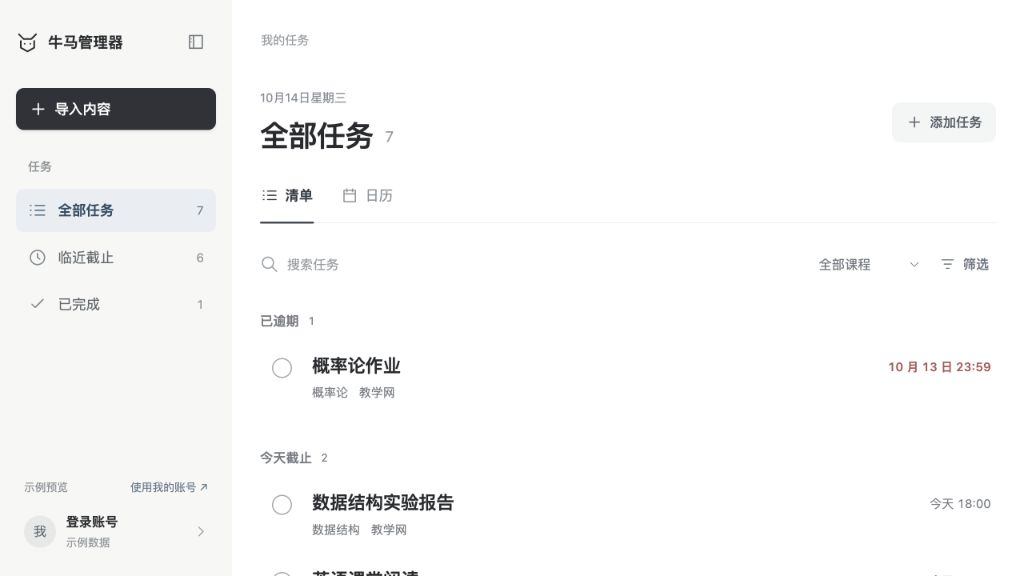
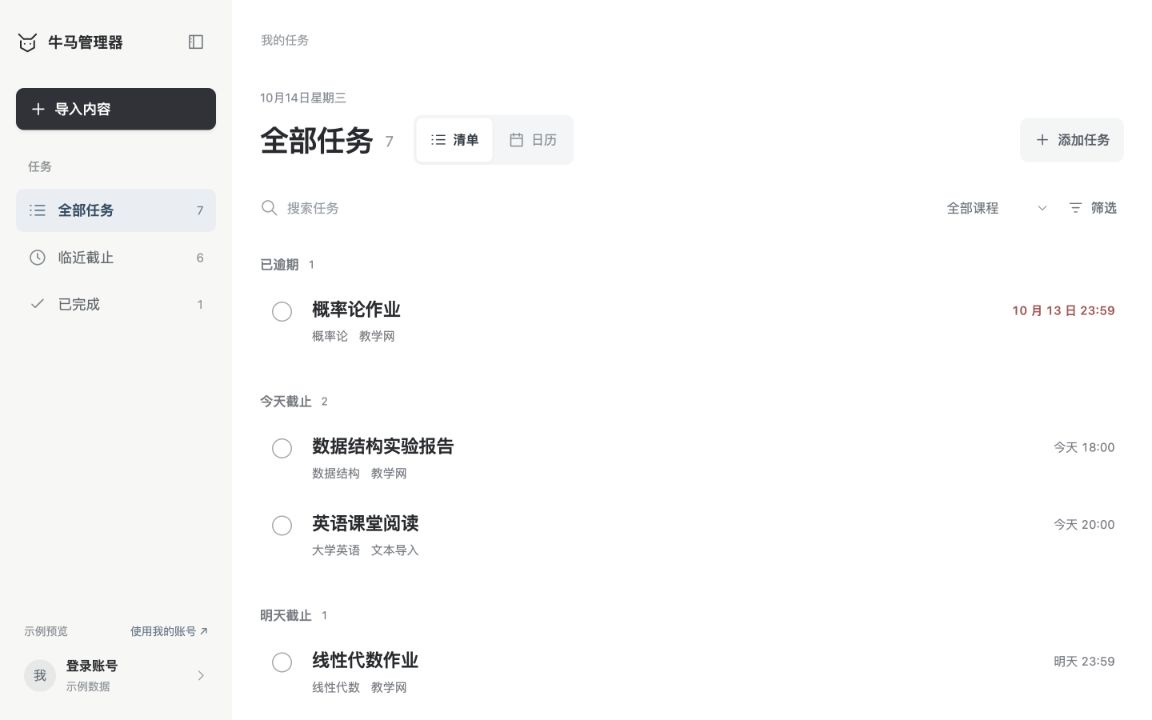
fix(frontend): simplify task views and stabilize view switching

diff --git a/frontend/src/app.js b/frontend/src/app.js
@@ -171,6 +171,7 @@ async function refresh() {
   render();
 }
 const filtered = () => filterTasks(state.tasks, { ...ui, today });
+const taskView = () => (ui.scope === "all" ? ui.view : "list");
 const courses = () =>
   [...new Set(state.tasks.map((t) => t.course).filter(Boolean))].sort((a, b) =>
     a.localeCompare(b, "zh"),
@@ -235,25 +236,29 @@ function calendarTools() {
   return `<div class="calendar-tools"><div class="calendar-period"><h2>${monthLabel()}</h2><div class="calendar-arrows"><button type="button" class="icon-button" data-action="calendar-prev" aria-label="${ui.mode === "month" ? "上个月" : "上一周"}">${icon("chevron", "flip")}</button><button type="button" class="icon-button" data-action="calendar-next" aria-label="${ui.mode === "month" ? "下个月" : "下一周"}">${icon("chevron")}</button><button type="button" class="btn quiet" data-action="calendar-today">今天</button></div></div><div class="calendar-options"><label class="jump-control" title="跳转日期">${icon("calendar")}<span class="sr-only">跳转日期</span><input id="calendar-jump" type="date" value="${esc(ui.selectedDate)}" aria-label="跳转日期"></label><div class="segmented small" aria-label="日历范围"><button type="button" data-calendar-mode="month" aria-pressed="${ui.mode === "month"}">月</button><button type="button" data-calendar-mode="week" aria-pressed="${ui.mode === "week"}">周</button></div></div></div>`;
 }
 function taskResults() {
-  const tasks = filtered(),
-    paneTasks = [
-      ...tasks.filter((t) => t.due),
-      ...filterTasks(state.tasks, {
-        ...ui,
-        scope: ui.scope === "done" ? "done" : "all",
-        today,
-      }).filter((t) => !t.due),
-    ];
-  if (ui.view === "list")
+  const tasks = filtered();
+  if (taskView() === "list")
     return renderTaskList(tasks, { escapeHtml: esc, icon, today });
+  const paneTasks = [
+    ...tasks.filter((t) => t.due),
+    ...filterTasks(state.tasks, {
+      ...ui,
+      scope: "all",
+      today,
+    }).filter((t) => !t.due),
+  ];
   return `${calendarTools()}<div class="calendar-layout"><div class="calendar-grid-wrap">${renderCalendar({ tasks, anchorDate: ui.anchor, mode: ui.mode, selectedDate: ui.selectedDate, today, escapeHtml: esc, icon })}</div>${renderDayPanel({ tasks: paneTasks, selectedDate: ui.selectedDate, pane: ui.pane, escapeHtml: esc, icon, today })}</div>`;
 }
 function tasksPage() {
+  const view = taskView();
+  const viewSwitch = ui.scope === "all"
+    ? `<div class="segmented task-view-switch" role="group" aria-label="任务视图"><button type="button" data-view="list" aria-pressed="${view === "list"}">${icon("tasks")}<span>清单</span></button><button type="button" data-view="calendar" aria-pressed="${view === "calendar"}">${icon("calendar")}<span>日历</span></button></div>`
+    : "";
   const label =
     { all: "全部任务", near: "临近截止", done: "已完成", undated: "无日期" }[
       ui.scope
     ] || "全部任务";
-  return `<section class="task-page ${ui.view === "calendar" ? "is-calendar" : ""}"><header class="page-heading"><div><div class="page-eyebrow">${new Intl.DateTimeFormat("zh-CN", { month: "long", day: "numeric", weekday: "long" }).format(new Date(today + "T12:00:00"))}</div><h1 tabindex="-1">${label}<span class="heading-count" id="result-count">${filtered().length}</span></h1></div><button type="button" class="btn add-task" data-action="task-new">${icon("plus")}<span>添加任务</span></button></header><div class="view-tabs" aria-label="任务视图"><button type="button" data-view="list" aria-pressed="${ui.view === "list"}">${icon("tasks")}清单</button><button type="button" data-view="calendar" aria-pressed="${ui.view === "calendar"}">${icon("calendar")}日历</button><span class="view-caption">${ui.view === "calendar" ? "按截止日期查看" : ""}</span></div>${toolbar()}<div id="task-results">${taskResults()}</div>${state.trash.length ? `<footer class="task-page-footer"><button type="button" class="btn quiet" data-action="open-trash">${icon("trash")}回收站 <span>${state.trash.length}</span></button></footer>` : ""}<datalist id="course-options">${courses()
+  return `<section class="task-page ${view === "calendar" ? "is-calendar" : ""}"><header class="page-heading task-page-heading"><div class="task-heading"><div class="page-eyebrow">${new Intl.DateTimeFormat("zh-CN", { month: "long", day: "numeric", weekday: "long" }).format(new Date(today + "T12:00:00"))}</div><div class="task-heading-line"><h1 tabindex="-1">${label}<span class="heading-count" id="result-count">${filtered().length}</span></h1>${viewSwitch}</div></div><button type="button" class="btn add-task" data-action="task-new" aria-label="添加任务">${icon("plus")}<span>添加任务</span></button></header>${toolbar()}<div id="task-results">${taskResults()}</div>${state.trash.length ? `<footer class="task-page-footer"><button type="button" class="btn quiet" data-action="open-trash">${icon("trash")}回收站 <span>${state.trash.length}</span></button></footer>` : ""}<datalist id="course-options">${courses()
     .map((c) => `<option value="${esc(c)}">`)
     .join("")}</datalist></section>`;
 }
@@ -583,6 +588,7 @@ document.addEventListener("click", async (e) => {
       return;
     }
     if (button.dataset.view) {
+      if (ui.scope !== "all") return;
       ui.view = button.dataset.view;
       remember();
       render();

diff --git a/frontend/src/styles.css b/frontend/src/styles.css
@@ -24,6 +24,9 @@
 * {
   box-sizing: border-box;
 }
+html {
+  scrollbar-gutter: stable;
+}
 [hidden] {
   display: none !important;
 }
@@ -343,11 +346,13 @@ button .icon {
   display: none;
 }
 .task-page {
-  max-width: 860px;
-  margin: auto;
-}
-.task-page.is-calendar {
   max-width: 1450px;
+  margin: auto;
+  overflow-anchor: none;
+}
+.task-page:not(.is-calendar) #task-results,
+.task-page:not(.is-calendar) .task-page-footer {
+  max-width: 860px;
 }
 .page-heading {
   display: flex;
@@ -355,6 +360,43 @@ button .icon {
   justify-content: space-between;
   gap: 18px;
   margin-bottom: 23px;
+}
+.task-page-heading {
+  align-items: flex-end;
+}
+.task-heading {
+  min-width: 0;
+}
+.task-heading-line {
+  display: flex;
+  align-items: center;
+  gap: 20px;
+  min-height: 50px;
+}
+.task-heading-line h1 {
+  flex: none;
+  white-space: nowrap;
+}
+.task-heading-line .task-view-switch {
+  flex: none;
+}
+.task-heading-line .task-view-switch button {
+  display: inline-flex;
+  align-items: center;
+  justify-content: center;
+  gap: 6px;
+  min-width: 76px;
+  min-height: 44px;
+  padding: 9px 12px;
+  white-space: nowrap;
+}
+.task-view-switch .icon {
+  width: 17px;
+  height: 17px;
+}
+.task-page-heading > .add-task {
+  min-height: 44px;
+  margin-bottom: 3px;
 }
 .page-eyebrow {
   font-size: 12px;
@@ -387,49 +429,6 @@ button .icon {
 .add-task .icon {
   width: 17px;
   height: 17px;
-}
-.view-tabs {
-  display: flex;
-  align-items: center;
-  border-bottom: 1px solid var(--line);
-  gap: 26px;
-  margin-bottom: 21px;
-}
-.view-tabs > button {
-  display: flex;
-  align-items: center;
-  gap: 7px;
-  position: relative;
-  min-height: 44px;
-  background: transparent;
-  border: 0;
-  padding: 0 1px 10px;
-  font-size: 14px;
-  color: #8c9399;
-}
-.view-tabs > button[aria-pressed="true"] {
-  color: #303941;
-  font-weight: 600;
-}
-.view-tabs > button[aria-pressed="true"]:after {
-  content: "";
-  position: absolute;
-  left: 0;
-  right: 0;
-  bottom: -1px;
-  height: 2px;
-  background: #424b53;
-  border-radius: 2px;
-}
-.view-tabs .icon {
-  width: 17px;
-  height: 17px;
-}
-.view-caption {
-  font-size: 12px;
-  color: #a2a8ad;
-  margin-left: auto;
-  padding-bottom: 10px;
 }
 .query-toolbar {
   display: flex;
@@ -1152,9 +1151,6 @@ dialog .auth-switch {
     padding-left: 64px;
     padding-right: 64px;
   }
-  .task-page {
-    max-width: 900px;
-  }
   .calendar-layout {
     grid-template-columns: minmax(0, 1fr) 290px;
   }
@@ -1219,11 +1215,11 @@ dialog .auth-switch {
   .page-heading h1 {
     font-size: 26px;
   }
+  .task-heading-line {
+    gap: 14px;
+  }
   .calendar-options {
     gap: 5px;
-  }
-  .view-caption {
-    display: none;
   }
   .calendar-period {
     gap: 12px;
@@ -1284,6 +1280,54 @@ dialog .auth-switch {
     gap: 10px;
     margin-bottom: 17px;
   }
+  .task-page-heading {
+    display: grid;
+    grid-template-columns: minmax(0, 1fr) 44px;
+    grid-template-rows: 44px auto;
+    align-items: center;
+    gap: 6px 0;
+  }
+  .task-page-heading .task-heading {
+    display: contents;
+  }
+  .task-page-heading .page-eyebrow {
+    grid-column: 1;
+    grid-row: 1;
+    margin-bottom: 0;
+  }
+  .task-heading-line {
+    grid-column: 1 / -1;
+    grid-row: 2;
+    justify-content: space-between;
+    gap: 10px;
+  }
+  .task-heading-line h1 {
+    gap: 8px;
+  }
+  .task-heading-line .heading-count {
+    font-size: 13px;
+  }
+  .task-heading-line .task-view-switch button {
+    gap: 4px;
+    min-width: 58px;
+    padding: 9px 7px;
+    font-size: 12px;
+  }
+  .task-view-switch .icon {
+    width: 14px;
+    height: 14px;
+  }
+  .task-page-heading > .add-task {
+    grid-column: 2;
+    grid-row: 1;
+    width: 44px;
+    height: 44px;
+    padding: 0;
+    margin-bottom: 0;
+  }
+  .task-page-heading > .add-task span {
+    display: none;
+  }
   .page-heading h1,
   .import-page h1 {
     font-size: 27px;
@@ -1298,10 +1342,6 @@ dialog .auth-switch {
   .add-task .icon {
     width: 16px;
     height: 16px;
-  }
-  .view-tabs {
-    margin-bottom: 13px;
-    gap: 25px;
   }
   .query-toolbar {
     flex-wrap: wrap;
@@ -1423,6 +1463,18 @@ dialog .auth-switch {
   }
   .preview-note {
     font-size: 11px;
+  }
+}
+@media (max-width: 360px) {
+  .task-heading-line h1 {
+    font-size: 24px;
+  }
+  .task-heading-line .task-view-switch button {
+    min-width: 44px;
+    padding: 9px 6px;
+  }
+  .task-view-switch .icon {
+    display: none;
   }
 }
 @media (prefers-reduced-motion: reduce) {

diff --git a/frontend/docs/design.md b/frontend/docs/design.md
@@ -27,12 +27,12 @@
 ## 布局与入口
 
 - 桌面侧栏宽度 232px，可折叠；导入为明显主入口，任务范围位于同一区域，账号固定底部。
-- 清单最大阅读宽度 860px，避免宽屏任务行横跨整个屏幕。
+- 清单与日历共用固定宽度页面容器，切换时标题和查询区不位移；清单正文最大阅读宽度 860px，日历使用容器内较宽区域。
 - 任务详情采用约 420px 的右侧抽屉，背景清单和查询状态保留。
 - 700px 为手机布局断点：侧栏改为可关闭菜单，顶部保留导航触发按钮；抽屉适配窄屏。
 - 关键触控操作提供至少 44px 有效点击高度。选中状态除了颜色，还使用字重、形状及 `aria-pressed` 或 `aria-current`。
 
-“清单 / 日历”是同一任务范围的两种展示方式；“月 / 周”只出现在日历内部，避免把所有视图放进侧栏。日期选择和查询控件不与导入入口争夺视觉重点。
+“清单 / 日历”双段开关放在全部任务标题右侧，删除独立标签栏；临近截止与已完成固定使用清单。“月 / 周”只出现在日历内部，避免把所有视图放进侧栏。日期选择和查询控件不与导入入口争夺视觉重点。
 
 ## 任务查询与清单
 
@@ -40,13 +40,13 @@
 
 任务清单按以下顺序分组，空组不显示：已逾期、今天截止、明天截止、未来 7 天、之后截止、无截止日期。已完成任务平铺，不被重新标成逾期。
 
-查询区常驻关键词、课程和筛选入口。来源与截止日期范围收在可展开筛选区；组合条件一起生效，清单与日历使用相同条件。切换视图、完成任务或关闭详情保留查询、选中日期和浏览范围。
+查询区常驻关键词、课程和筛选入口。来源与截止日期范围收在可展开筛选区；组合条件一起生效，全部任务的清单与日历使用相同条件。切换视图、完成任务或关闭详情保留查询、选中日期和浏览范围；从日历进入临近截止或已完成，再返回全部任务时，恢复原月份、日期、月周模式、筛选与视图偏好。
 
 任务行的完成按钮与详情按钮相互独立，不能嵌套按钮。名称是视觉主体，课程、来源与进行中状态退到辅助层；截止日期在清楚的位置显示。查看详情后可编辑任务、标记完成或删除。
 
 ## 月历与周历
 
-日历只表示**任务的截止日期**，不表示开始时间、执行时段或学习计划。具体截止时刻可以展示；未提供时刻时不补造 23:59。
+日历仅属于全部任务页，展示未完成任务的**截止日期**，不表示开始时间、执行时段或学习计划；已完成任务不进入日历。具体截止时刻可以展示；未提供时刻时不补造 23:59。
 
 月历周一开头，按月份显示 4–6 行并淡化相邻月份日期。每格最多显示两条任务摘要，更多任务用“+N 项”进入当天清单；今天和选中日期以轻背景或小圆区分。桌面摘要可直接打开任务详情。
 

diff --git a/frontend/README.md b/frontend/README.md
@@ -1,13 +1,13 @@
 # 牛马管理器前端
 
-当前网页围绕两件事组织：导入通知，以及查询和处理任务。任务支持清单、月历和周历；账号入口固定在侧栏底部。当前界面规格见 [设计说明](docs/design.md)，模块边界见 [维护指南](docs/maintenance.md)。
+当前网页围绕两件事组织：导入通知，以及查询和处理任务。全部任务标题右侧的双段开关切换清单与日历，不再单设标签栏；两视图共用固定宽度页面容器，标题和查询区保持原位，清单正文限宽 860px，日历使用较宽区域。临近截止与已完成固定使用清单；账号入口固定在侧栏底部。当前界面规格见 [设计说明](docs/design.md)，模块边界见 [维护指南](docs/maintenance.md)。
 
 ## 功能与数据
 
 - **导入**：粘贴文本，或连接教学网采集作业与通知。结果进入待核对列表，核对原文、日期和目标任务后再确认新增或变更；支持忽略、撤回忽略及失败重试。邮箱显示禁用入口，尚未接入。
 - **任务**：添加、编辑、完成、重新打开、删除和恢复。删除先进入账号回收站；有记录时，任务页底部显示回收站入口。
 - **查询**：全部任务、临近截止、已完成三个范围，共用关键词、课程、来源和截止日期筛选。临近截止包含逾期任务以及今天起未来 7 天到期的未完成任务。
-- **日历**：月、周视图都按截止日期展示任务；选择日期查看当天清单，无日期任务另有入口。日期只有天时保留日期精度，具体时刻可留空。
+- **日历**：仅在全部任务中提供，月、周视图都按截止日期展示未完成任务；选择日期查看当天清单，无日期任务另有入口。切到临近截止或已完成再返回，保留原月份、选中日期、月周模式、筛选与视图偏好。日期只有天时保留日期精度，具体时刻可留空。
 - **账号**：侧栏底部可登录、注册、退出、修改昵称和密码。真实账号数据由服务端保存，浏览器只保留会话 Cookie 和视图偏好，不把工作区作为本地存储副本。
 
 当前前端不提供规划、任务拆分、学习时段或专注计时入口。保存适配层保留已有任务的来源、证据、`plans`、`subtasks` 等元数据；精简界面不删除账号中已有的这些记录。
